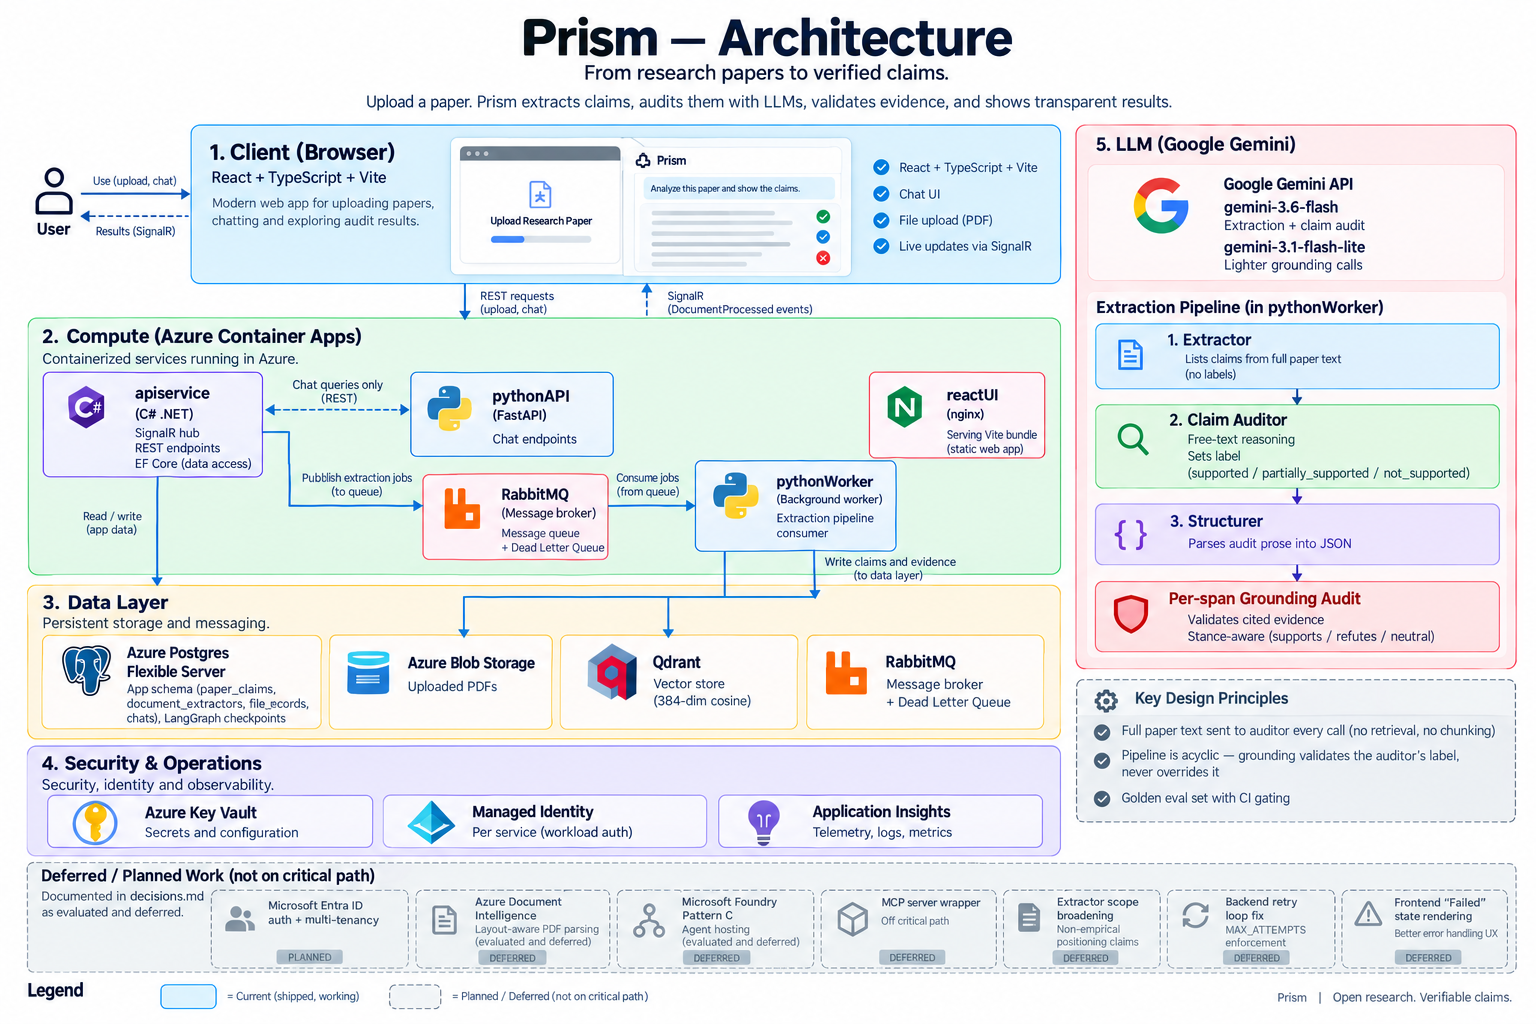
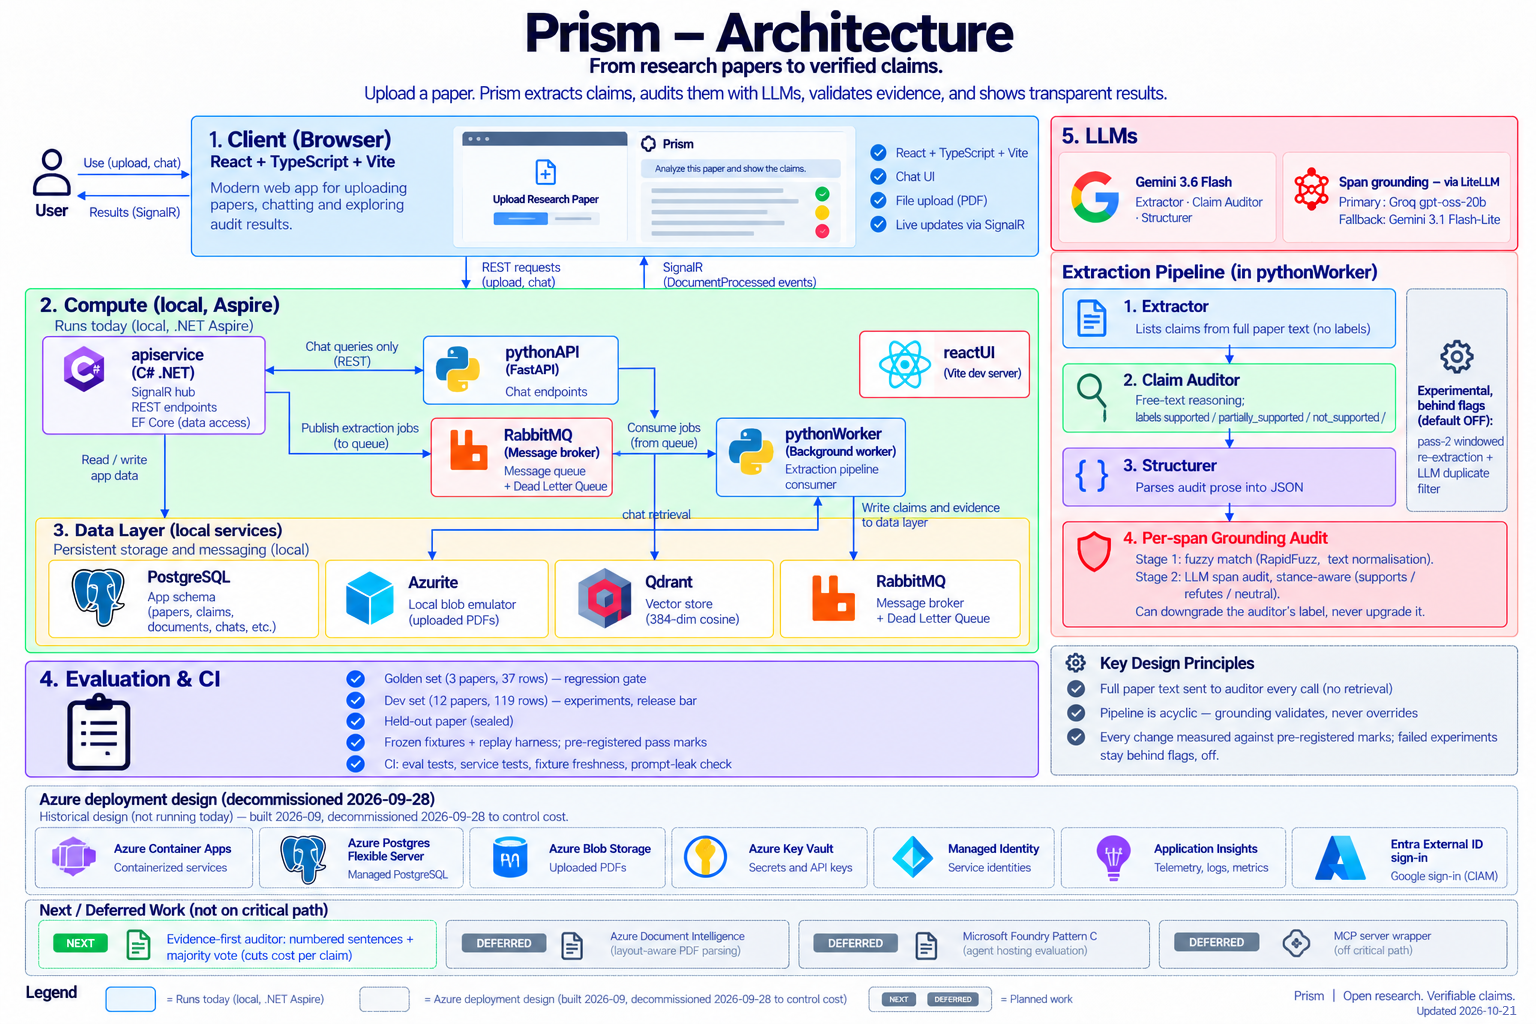
docs: update architecture diagram; remove unrelated TenderAI images

diff --git a/README.md b/README.md
@@ -50,13 +50,13 @@ flowchart LR
     DB --> UI[React UI / chat]
 ```
 
-This is what runs today, locally. For the (decommissioned) hosted-deployment design, see [Architecture](#architecture) below.
+This is what runs today, locally. The full architecture, including the decommissioned Azure design, is below.
 
 ## Architecture
 
-![Prism architecture — Azure deployment design](docs/diagrams/architecture.png)
+![Prism architecture — local stack and decommissioned Azure design](docs/diagrams/architecture.png)
 
-Azure deployment design (built 2026-09, decommissioned 2026-09-28 to control cost) — **not what runs today.** This diagram shows the Container Apps topology Prism was deployed on before the shutdown; the pipeline diagram above is the accurate picture of the current local system. `docs/diagrams/current.png` and `docs/diagrams/target.png` belong to a different project (TenderAI) and are not used here.
+Solid boxes run today (local, .NET Aspire). The dashed grey band is the Azure deployment design, built 2026-09 and decommissioned 2026-09-28 to control cost. The pipeline diagram above shows the request flow in short.
 
 ## Evaluation method
 
@@ -130,7 +130,7 @@ dotnet user-secrets set "Parameters:QdrantApiKey" "any-strong-string"
 
 *(Versions confirmed against `Prism.AppHost/Prism.AppHost.csproj`, `Prism.PythonService/pyproject.toml`, `Prism.Web/package.json`. Postgres/Qdrant/RabbitMQ server version numbers and EF Core's version are not pinned in `AppHost.cs`, so not confirmable from the repo and left unversioned here.)*
 
-**Target (relaunch design, not deployed — [Architecture](#architecture)):** Azure Container Apps for API/worker/frontend, Azure Postgres Flexible Server, Azure Blob Storage, Azure Key Vault, Managed Identity, Application Insights.
+**Azure design (deployed 2026-09, decommissioned 2026-09-28 — [Architecture](#architecture)):** Azure Container Apps for API/worker/frontend, Azure Postgres Flexible Server, Azure Blob Storage, Azure Key Vault, Managed Identity, Application Insights.
 
 ## Links
 
